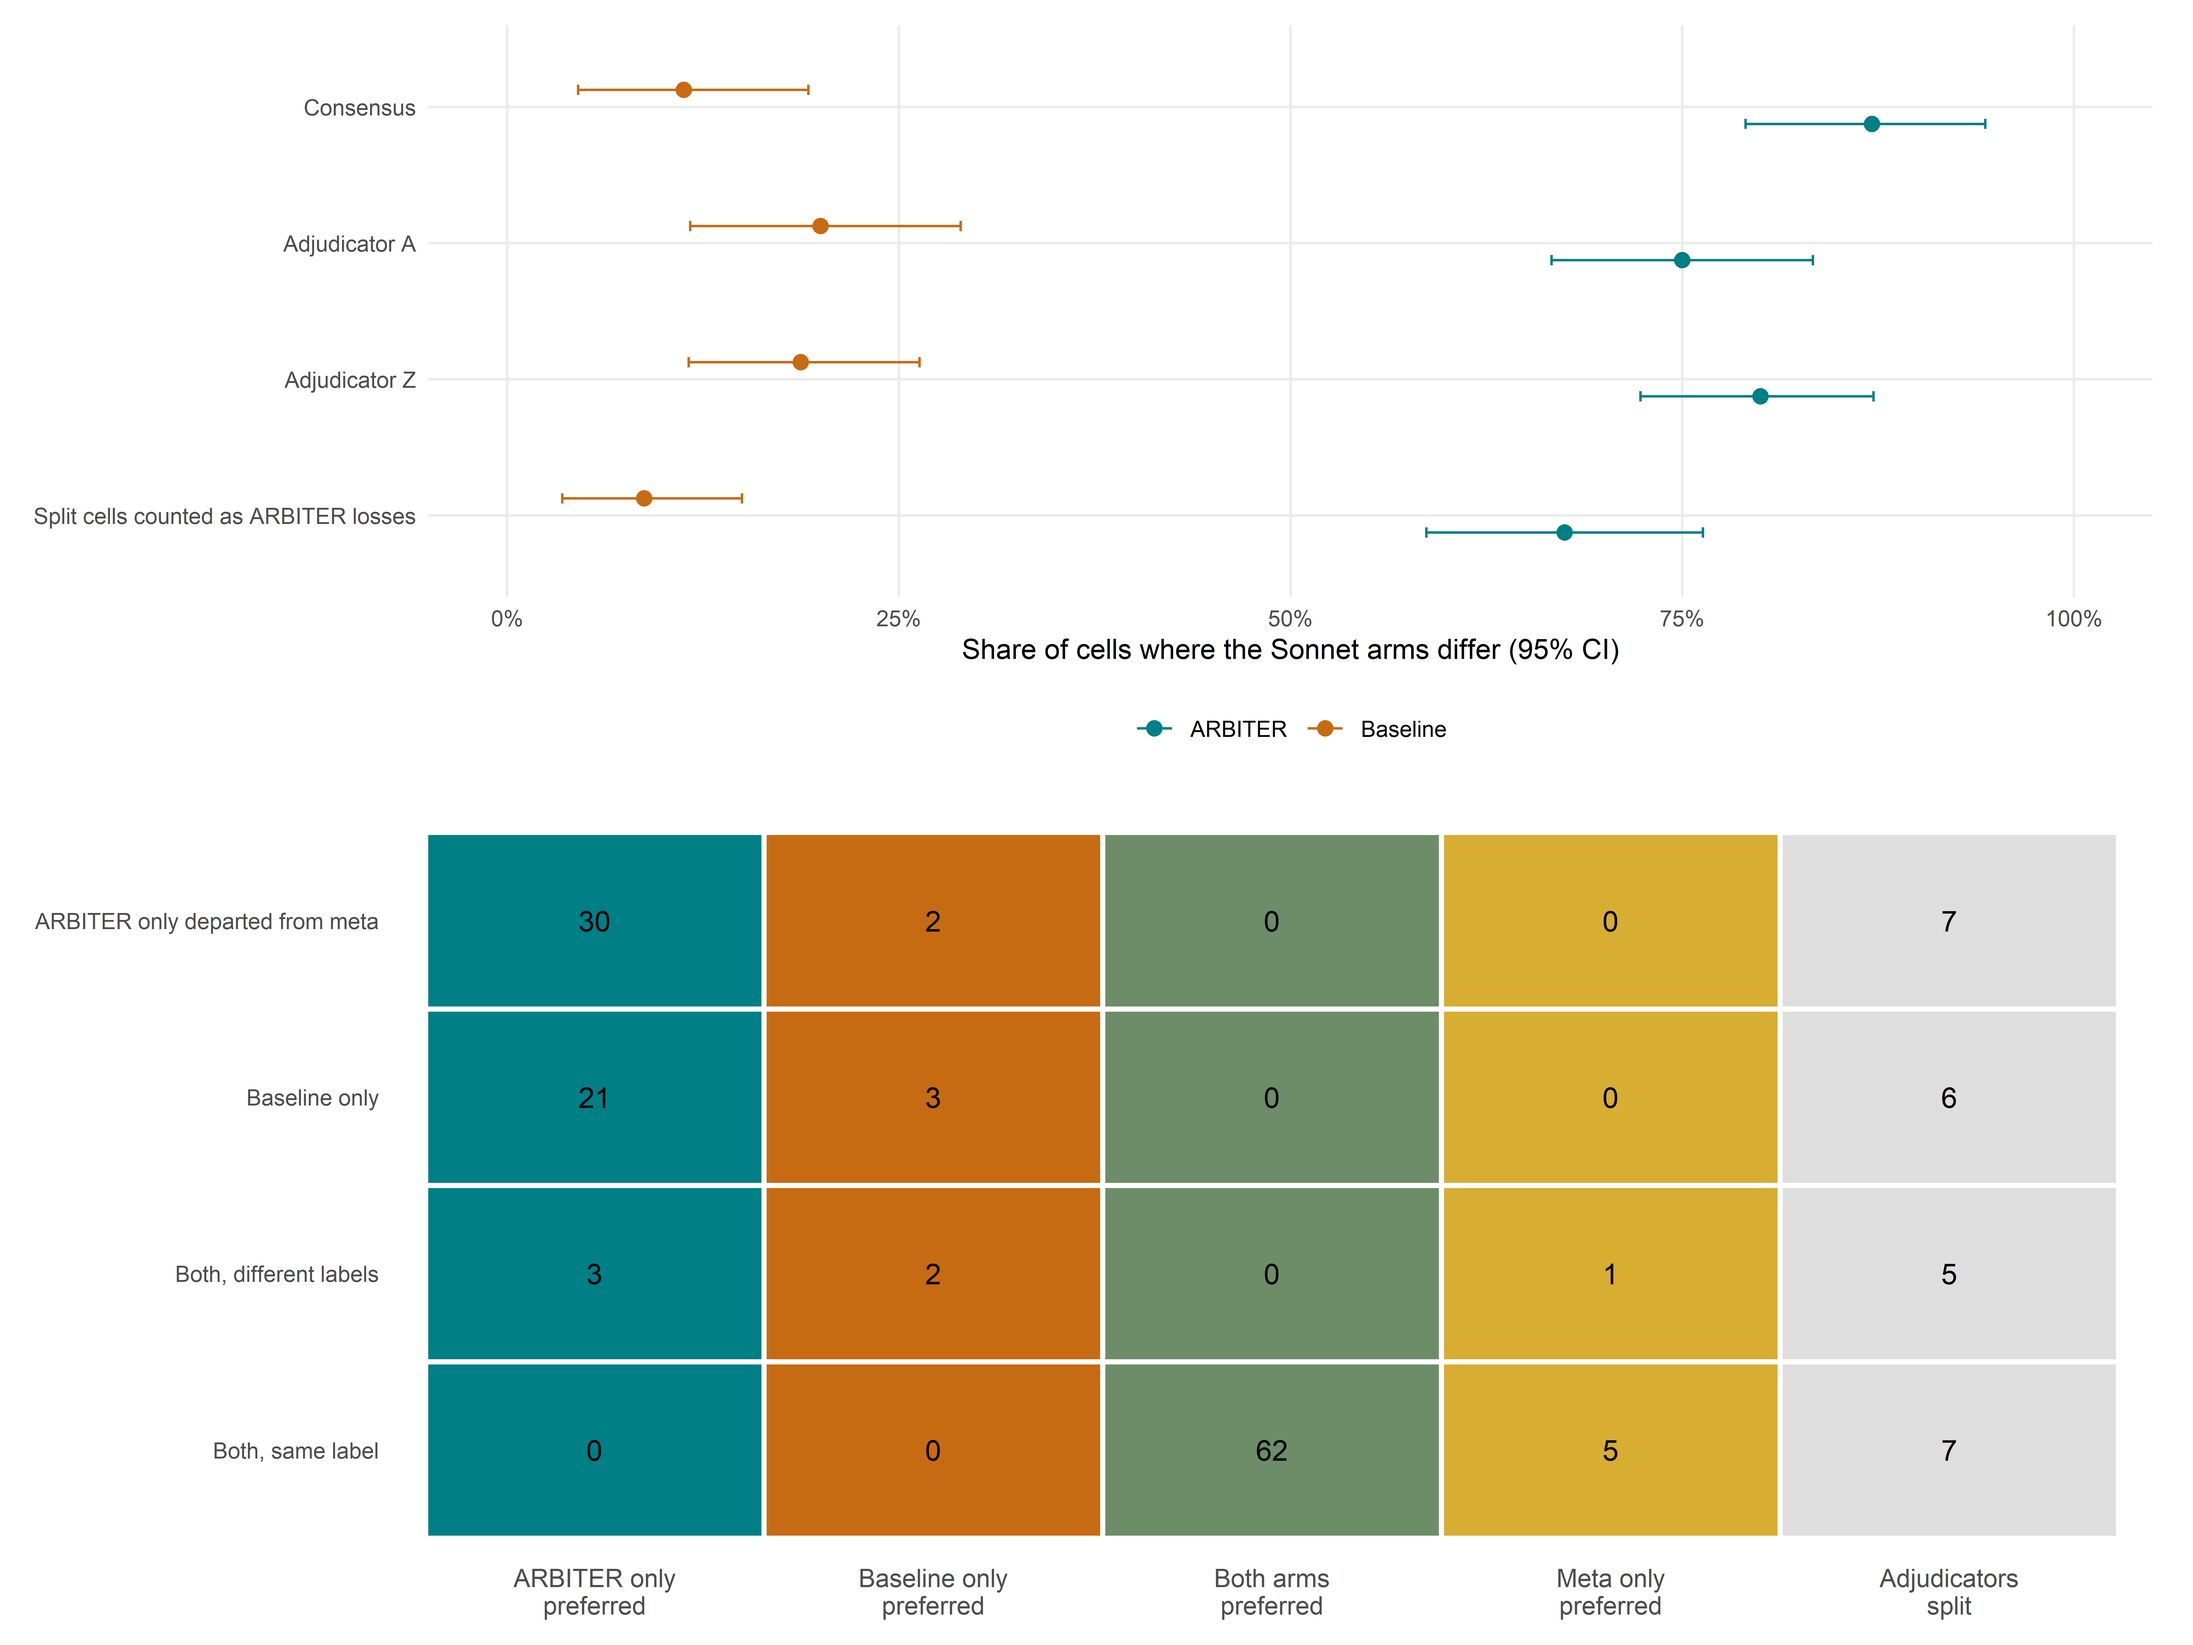
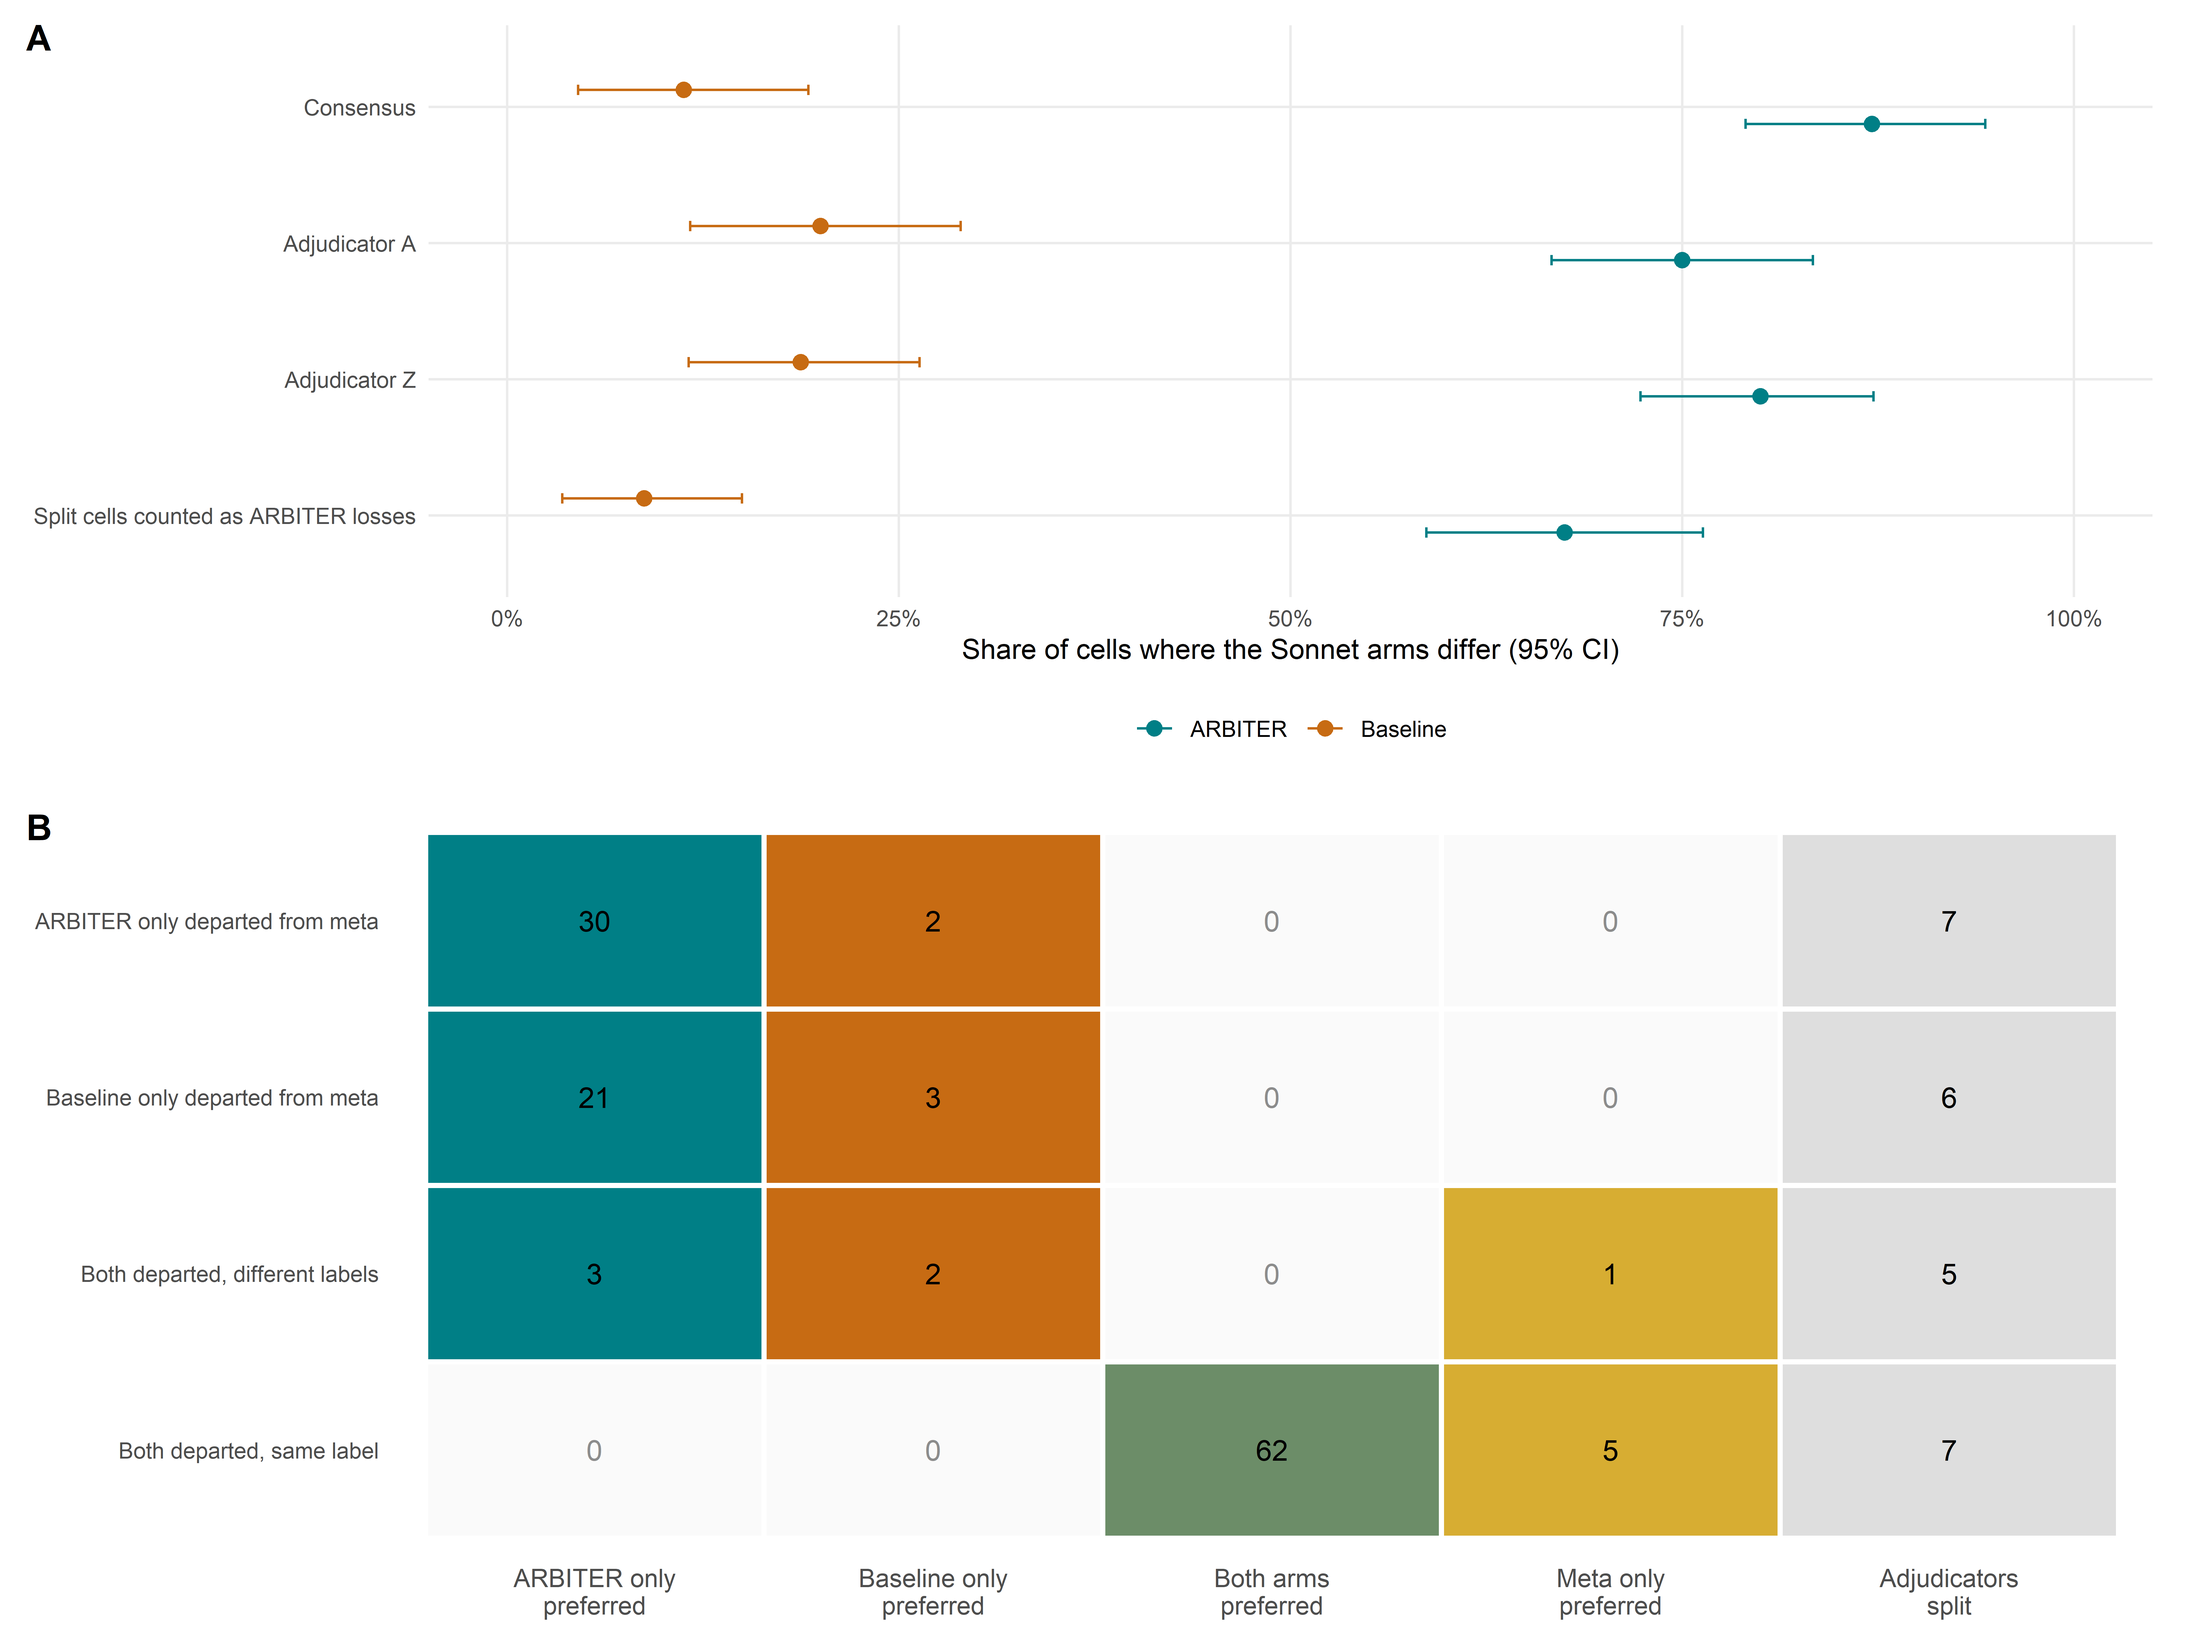
Tag adjudication panels and distinguish zero-count tiles

diff --git a/analysis/DEVIATIONS.md b/analysis/DEVIATIONS.md
@@ -122,3 +122,5 @@ No Python is used. This file records conservative resolutions as they arise.
 13. **Round 4 P1 trace presentation.** Default award-10-2018 D2 illustrates a more-severe ARBITER judgement preferred by consensus while Baseline matches meta. Four such candidates and levin-2016 D2 are listed. The selected 25-word contiguous excerpt omits the leading fragment "study.". Workflow rows now align. Bundles record verification.json result="verified" and named checks including content_hashes, but no individual passage-match status. Figure 1 quotes the actual bundle-level status and explicitly states that scope; no passage-specific verification claim is inferred.
 
 14. **Round 4 P2 flow presentation.** Removed the repeated discordant-cell count from the consensus parent box; the child retains 62 differing cells and the unchanged 54/7/1 breakdown.
+
+15. **Round 4 P3 adjudication presentation.** Figure 3 has A/B tags, parallel departure-row labels, and nearly white zero-count tiles with grey zero labels. Nonzero counts retain the original outcome colours; counts and intervals are unchanged.
